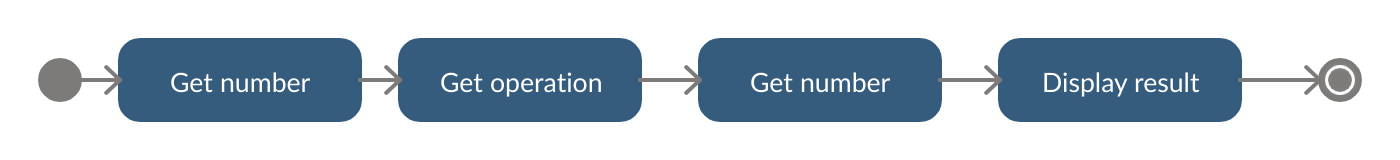
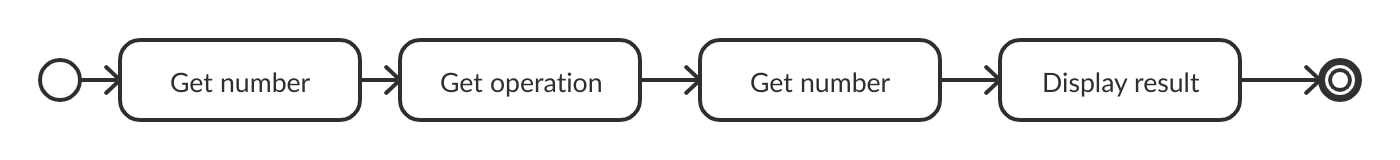
Added media

diff --git a/README.md b/README.md
@@ -276,6 +276,8 @@ Of course, since the procedure previously described is only concerned with turni
 
 ![Naive approach\label{non}](./media/N-O-N.png)
 
+![Possible improvement\label{non}](./media/N-O_repeat.png)
+
 \pagebreak
 
 # Conclusion
